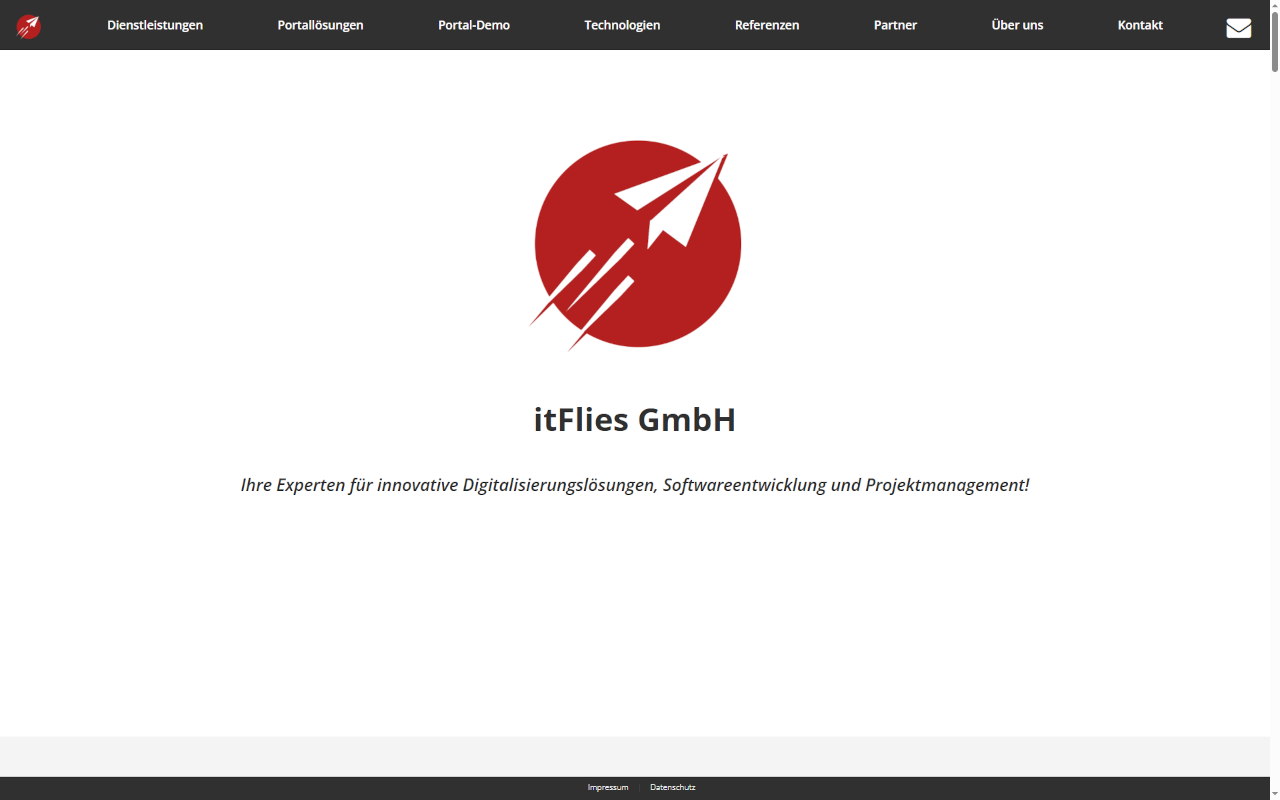
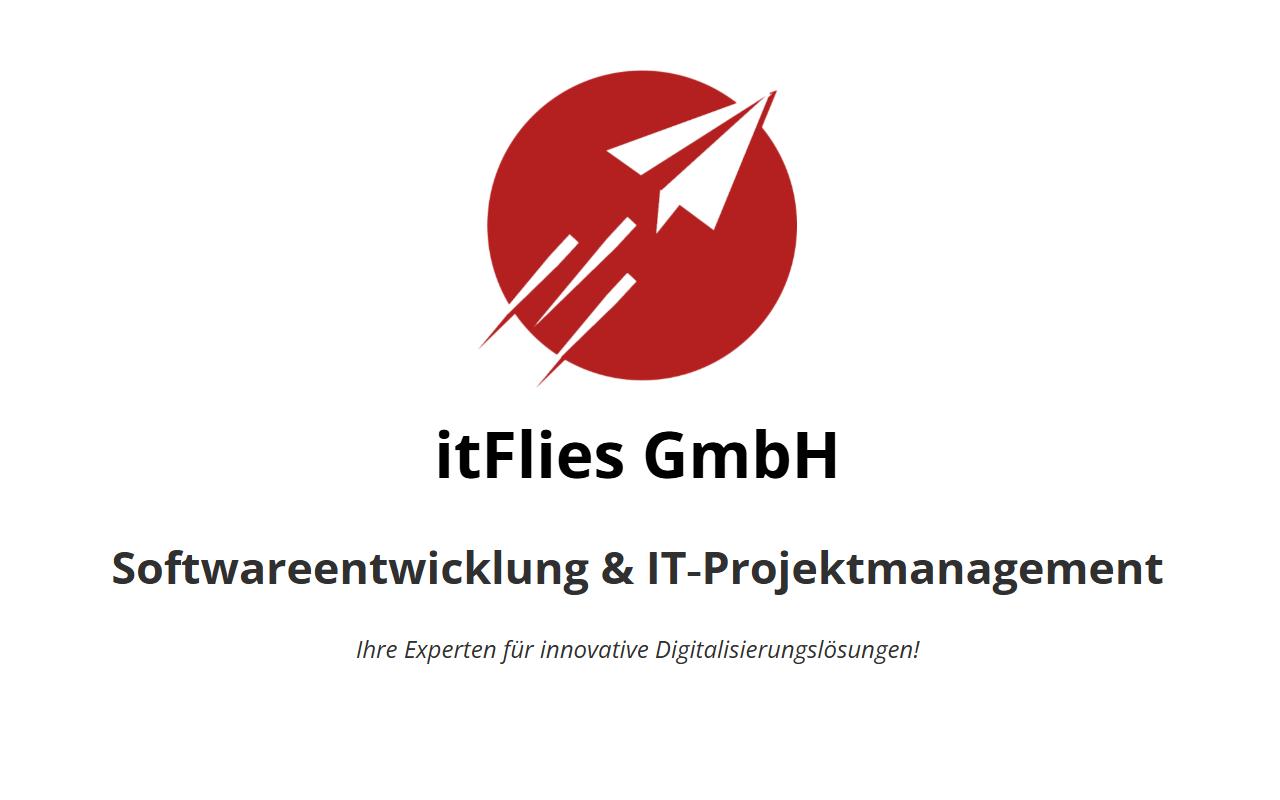
Anpassungen Startseite / Top

diff --git a/index.html b/index.html
@@ -6,11 +6,12 @@
 	<meta name="viewport" content="width=device-width, initial-scale=1.0">
 	<!-- <base href="https://www.itflies.ch/"> -->
 
-	<title>Portale, Software & IT-Projektmanagement | itFlies GmbH</title>
+	<title>Softwareentwicklung & IT-Projektmanagement | itFlies GmbH</title>
 	<meta name="description"
-		content="Digitale Portale, Softwareentwicklung & IT-Projektmanagement für Unternehmen. itFlies GmbH bringt Ihre Geschäftsprozesse effizient in die digitale Zukunft.">
+		content="Digitalisierung mit Portalen, Softwareentwicklung & IT-Projektmanagement. itFlies GmbH entwickelt massgeschneiderte Lösungen zur Optimierung von Geschäftsprozessen, inklusive Individualentwicklungen für SAP Business One.">
+
 	<meta name="keywords"
-		content="Portallösungen, Softwareentwicklung, IT-Beratung, Projektmanagement, Projektleiter, SAP Business One, Schweiz, PWA, Digitalisierung, Geschäftsprozesse, schnell, individuell">
+		content="Portallösungen, Partnerportal, Businessportal, Kundenportal, Zeiterfassungsportal, Softwareentwicklung, IT-Beratung, Projektmanagement, Projektleiter, SAP Business One, Schweiz, PWA, Digitalisierung, Geschäftsprozesse, schnell, individuell">
 	<meta name="page-topic" content="Portallösungen, Softwareentwicklung, IT-Beratung und Digitalisierung">
 	<!-- Content Security Policy (CSP), X-XSS-Protection Header um Cross-Site Scripting (XSS) zu verhindern  -->
 	<meta http-equiv="Content-Security-Policy" content="default-src 'self' https://www.youtube.com https://www.youtube-nocookie.com;
@@ -19,9 +20,9 @@
              frame-src https://www.youtube.com https://www.youtube-nocookie.com;">
 
 	<!-- START Open Graph-Tags für Social Media Integration -->
-	<meta property="og:title" content="Portale, Software & IT-Projektmanagement | itFlies GmbH">
+	<meta property="og:title" content="Softwareentwicklung & IT-Projektmanagement | itFlies GmbH">
 	<meta property="og:description"
-		content="Digitale Portale, Softwareentwicklung & IT-Projektmanagement für Unternehmen. itFlies GmbH bringt Ihre Geschäftsprozesse effizient in die digitale Zukunft.">
+		content="Digitalisierung mit Portalen, Softwareentwicklung & IT-Projektmanagement. itFlies GmbH entwickelt massgeschneiderte Lösungen zur Optimierung von Geschäftsprozessen, inklusive Individualentwicklungen für SAP Business One.">
 	<meta property="og:image" content="https://itflies.ch/images/home.jpg">
 	<meta property="og:url" content="https://itflies.ch">
 	<!-- END Open Graph-Tags für Social Media Integration -->
@@ -46,7 +47,7 @@
 	<meta name="msapplication-TileColor" content="#ffffff">
 	<meta name="msapplication-TileImage" content="/images/ms-icon-144x144.png">
 	<meta name="theme-color" content="#ffffff">
-	<script type="application/ld+json">
+	<!-- <script type="application/ld+json">
 		{
 			"@context": "https://schema.org",
 			"@type": "Organization",
@@ -57,7 +58,7 @@
 			  "https://www.linkedin.com/company/itflies-gmbh/",
 			]
 		  }
-	</script>
+	</script> -->
 
 	<script>
 		document.addEventListener("DOMContentLoaded", function () {
@@ -128,11 +129,9 @@
 						<img src="images/home.png" class="head-logo" alt="Logo itFlies GmbH" />
 						<br>
 						<p class="titel-p">itFlies GmbH</p>
-						<h1>Softwareentwicklung & Projektmanagement</h1>
+						<h1>Softwareentwicklung & IT&#8209;Projektmanagement</h1>
 						<blockquote>
-							<p class="custom-p">Ihre Experten für innovative Digitalisierungslösungen,
-								Softwareentwicklung und
-								IT-Projektmanagement!
+							<p class="custom-p">Ihre Experten für innovative Digitalisierungslösungen!
 							</p>
 						</blockquote>
 						<br>
@@ -749,14 +748,14 @@
 							Verfügung.<br>
 							Wir freuen uns über ihre Nachricht per E-Mail an: <span
 								class="email-link contact-email"></span> </p>
-						<div>
+						<!-- <div>
 							<p class="contact-p">Besuchen Sie auch unsere LinkedIn-Unternehmensseite</p>
 							<a href="https://www.linkedin.com/company/itflies-gmbh" target="_blank">
 								<img src="images/about/LI-Bug.svg.original.svg"
 									alt="LinkedIn Unternehmensseite itFlies GmbH" class="image-linkedin"
 									title="LinkedIn Unternehmensseite itFlies GmbH" />
 							</a>
-						</div>
+						</div> -->
 					</header>
 					<br>
 					<br>
@@ -808,19 +807,20 @@
 							Ansprechperson: Marco Koster<br>
 							E-Mail: <span class="email-link"></span>
 						</p>
+						<h4>Erhebung und Nutzung personenbezogener Daten</h4>
+						<p>
+							Wir erheben keine personenbezogenen Daten wie Namen oder Kontaktdaten auf unserer Website.
+							Beim Besuch unserer Website können jedoch technisch notwendige Daten wie IP-Adresse und
+							Browsertyp temporär gespeichert werden, um den Betrieb und die Sicherheit der Website zu
+							gewährleisten.
+							Diese Daten werden nicht für eine personenbezogene Auswertung genutzt.
+						</p>
 						<h4>Cookies und Speicherung von Daten</h4>
 						<p>
 							Unsere Website verwendet ausschliesslich technisch notwendige Cookies, um die grundlegende
-							Funktionalität der Seite sicherzustellen (z. B. zur Speicherung von Spracheinstellungen oder
-							zur Verwaltung der Sitzung).
+							Funktionalität der Seite sicherzustellen.
 							Wir setzen keine Tracking-, Analyse- oder Werbecookies ein. Daher ist keine
 							Cookie-Einwilligung erforderlich.
-						</p>
-						<h4>Erhebung und Nutzung personenbezogener Daten</h4>
-						<p>
-							Wir verarbeiten personenbezogene Daten nur, soweit dies für den Betrieb unserer Website
-							und die Erbringung unserer Dienstleistungen erforderlich ist. Dazu gehören insbesondere
-							Personenstammdaten, Kontaktdaten sowie Nutzungsdaten (z. B. IP-Adresse, Browsertyp).
 						</p>
 						<h4>Zwecke und Rechtsgrundlagen der Datenverarbeitung</h4>
 						<p>
